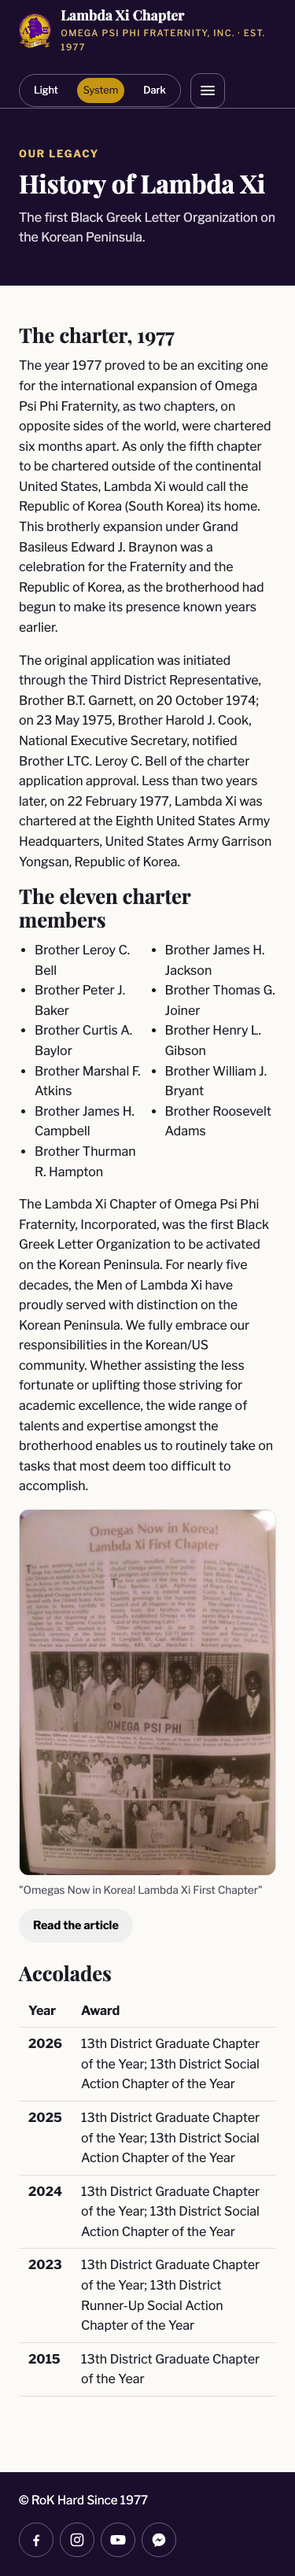
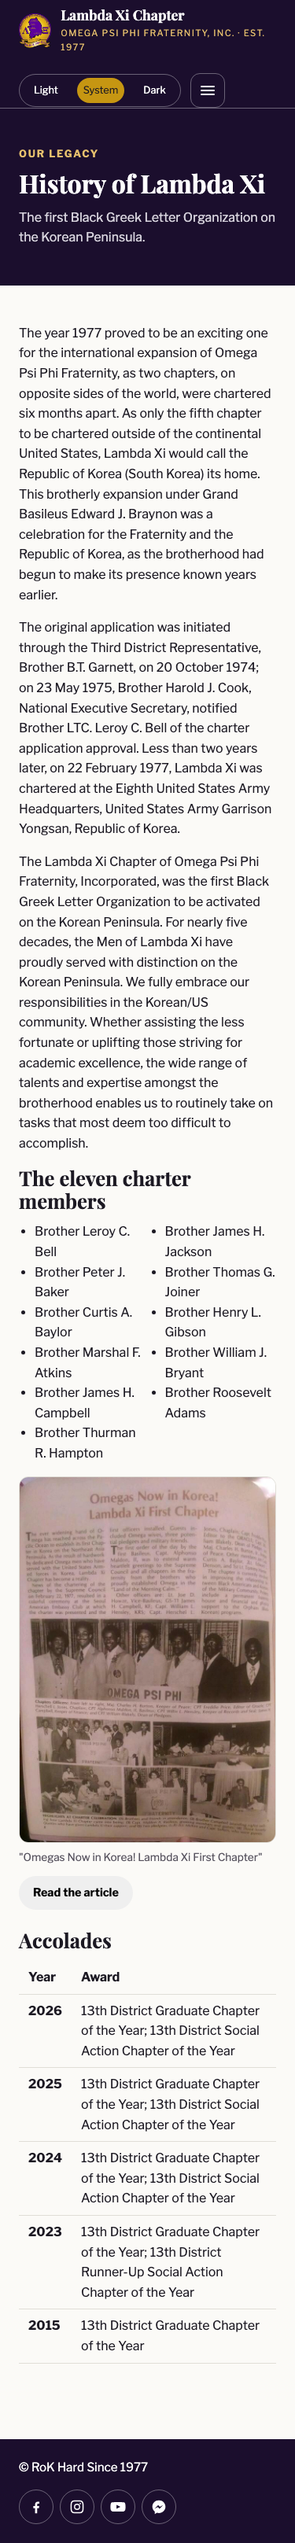
content: History opens with the charter story as one block, no section heading, members list after it

diff --git a/docs/history/index.html b/docs/history/index.html
@@ -108,28 +108,26 @@
   <section class="section">
     <div class="container">
       <div class="prose">
-        <h2 id="charter">The charter, 1977</h2>
         <p>The year 1977 proved to be an exciting one for the international expansion of Omega Psi Phi Fraternity, as two chapters, on opposite sides of the world, were chartered six months apart. As only the fifth chapter to be chartered outside of the continental United States, Lambda Xi would call the Republic of Korea (South Korea) its home. This brotherly expansion under Grand Basileus Edward J. Braynon was a celebration for the Fraternity and the Republic of Korea, as the brotherhood had begun to make its presence known years earlier.</p>
         <p>The original application was initiated through the Third District Representative, Brother B.T. Garnett, on 20 October 1974; on 23 May 1975, Brother Harold J. Cook, National Executive Secretary, notified Brother LTC. Leroy C. Bell of the charter application approval. Less than two years later, on 22 February 1977, Lambda Xi was chartered at the Eighth United States Army Headquarters, United States Army Garrison Yongsan, Republic of Korea.</p>
 
+        <p>The Lambda Xi Chapter of Omega Psi Phi Fraternity, Incorporated, was the first Black Greek Letter Organization to be activated on the Korean Peninsula. For nearly five decades, the Men of Lambda Xi have proudly served with distinction on the Korean Peninsula. We fully embrace our responsibilities in the Korean/US community. Whether assisting the less fortunate or uplifting those striving for academic excellence, the wide range of talents and expertise amongst the brotherhood enables us to routinely take on tasks that most deem too difficult to accomplish.</p>
+
         <h2 id="members">The eleven charter members</h2>
         <ul class="two-col-list">
-            <li>Brother Leroy C. Bell</li>
-            <li>Brother Peter J. Baker</li>
-            <li>Brother Curtis A. Baylor</li>
-            <li>Brother Marshal F. Atkins</li>
-            <li>Brother James H. Campbell</li>
-            <li>Brother Thurman R. Hampton</li>
-            <li>Brother James H. Jackson</li>
-            <li>Brother Thomas G. Joiner</li>
-            <li>Brother Henry L. Gibson</li>
-            <li>Brother William J. Bryant</li>
-            <li>Brother Roosevelt Adams</li>
-          
+          <li>Brother Leroy C. Bell</li>
+          <li>Brother Peter J. Baker</li>
+          <li>Brother Curtis A. Baylor</li>
+          <li>Brother Marshal F. Atkins</li>
+          <li>Brother James H. Campbell</li>
+          <li>Brother Thurman R. Hampton</li>
+          <li>Brother James H. Jackson</li>
+          <li>Brother Thomas G. Joiner</li>
+          <li>Brother Henry L. Gibson</li>
+          <li>Brother William J. Bryant</li>
+          <li>Brother Roosevelt Adams</li>
         </ul>
 
-
-        <p>The Lambda Xi Chapter of Omega Psi Phi Fraternity, Incorporated, was the first Black Greek Letter Organization to be activated on the Korean Peninsula. For nearly five decades, the Men of Lambda Xi have proudly served with distinction on the Korean Peninsula. We fully embrace our responsibilities in the Korean/US community. Whether assisting the less fortunate or uplifting those striving for academic excellence, the wide range of talents and expertise amongst the brotherhood enables us to routinely take on tasks that most deem too difficult to accomplish.</p>
       </div>
 
       <figure class="poster stack-top" id="article">

diff --git a/history-of-lambda-xi/mock/history-of-lambda-xi-mock.html b/history-of-lambda-xi/mock/history-of-lambda-xi-mock.html
@@ -107,28 +107,26 @@
   <section class="section">
     <div class="container">
       <div class="prose">
-        <h2 id="charter">The charter, 1977</h2>
         <p>The year 1977 proved to be an exciting one for the international expansion of Omega Psi Phi Fraternity, as two chapters, on opposite sides of the world, were chartered six months apart. As only the fifth chapter to be chartered outside of the continental United States, Lambda Xi would call the Republic of Korea (South Korea) its home. This brotherly expansion under Grand Basileus Edward J. Braynon was a celebration for the Fraternity and the Republic of Korea, as the brotherhood had begun to make its presence known years earlier.</p>
         <p>The original application was initiated through the Third District Representative, Brother B.T. Garnett, on 20 October 1974; on 23 May 1975, Brother Harold J. Cook, National Executive Secretary, notified Brother LTC. Leroy C. Bell of the charter application approval. Less than two years later, on 22 February 1977, Lambda Xi was chartered at the Eighth United States Army Headquarters, United States Army Garrison Yongsan, Republic of Korea.</p>
 
+        <p>The Lambda Xi Chapter of Omega Psi Phi Fraternity, Incorporated, was the first Black Greek Letter Organization to be activated on the Korean Peninsula. For nearly five decades, the Men of Lambda Xi have proudly served with distinction on the Korean Peninsula. We fully embrace our responsibilities in the Korean/US community. Whether assisting the less fortunate or uplifting those striving for academic excellence, the wide range of talents and expertise amongst the brotherhood enables us to routinely take on tasks that most deem too difficult to accomplish.</p>
+
         <h2 id="members">The eleven charter members</h2>
         <ul class="two-col-list">
-            <li>Brother Leroy C. Bell</li>
-            <li>Brother Peter J. Baker</li>
-            <li>Brother Curtis A. Baylor</li>
-            <li>Brother Marshal F. Atkins</li>
-            <li>Brother James H. Campbell</li>
-            <li>Brother Thurman R. Hampton</li>
-            <li>Brother James H. Jackson</li>
-            <li>Brother Thomas G. Joiner</li>
-            <li>Brother Henry L. Gibson</li>
-            <li>Brother William J. Bryant</li>
-            <li>Brother Roosevelt Adams</li>
-          
+          <li>Brother Leroy C. Bell</li>
+          <li>Brother Peter J. Baker</li>
+          <li>Brother Curtis A. Baylor</li>
+          <li>Brother Marshal F. Atkins</li>
+          <li>Brother James H. Campbell</li>
+          <li>Brother Thurman R. Hampton</li>
+          <li>Brother James H. Jackson</li>
+          <li>Brother Thomas G. Joiner</li>
+          <li>Brother Henry L. Gibson</li>
+          <li>Brother William J. Bryant</li>
+          <li>Brother Roosevelt Adams</li>
         </ul>
 
-
-        <p>The Lambda Xi Chapter of Omega Psi Phi Fraternity, Incorporated, was the first Black Greek Letter Organization to be activated on the Korean Peninsula. For nearly five decades, the Men of Lambda Xi have proudly served with distinction on the Korean Peninsula. We fully embrace our responsibilities in the Korean/US community. Whether assisting the less fortunate or uplifting those striving for academic excellence, the wide range of talents and expertise amongst the brotherhood enables us to routinely take on tasks that most deem too difficult to accomplish.</p>
       </div>
 
       <figure class="poster stack-top" id="article">

diff --git a/merged/history-of-lambda-xi.html b/merged/history-of-lambda-xi.html
@@ -107,28 +107,26 @@
   <section class="section">
     <div class="container">
       <div class="prose">
-        <h2 id="charter">The charter, 1977</h2>
         <p>The year 1977 proved to be an exciting one for the international expansion of Omega Psi Phi Fraternity, as two chapters, on opposite sides of the world, were chartered six months apart. As only the fifth chapter to be chartered outside of the continental United States, Lambda Xi would call the Republic of Korea (South Korea) its home. This brotherly expansion under Grand Basileus Edward J. Braynon was a celebration for the Fraternity and the Republic of Korea, as the brotherhood had begun to make its presence known years earlier.</p>
         <p>The original application was initiated through the Third District Representative, Brother B.T. Garnett, on 20 October 1974; on 23 May 1975, Brother Harold J. Cook, National Executive Secretary, notified Brother LTC. Leroy C. Bell of the charter application approval. Less than two years later, on 22 February 1977, Lambda Xi was chartered at the Eighth United States Army Headquarters, United States Army Garrison Yongsan, Republic of Korea.</p>
 
+        <p>The Lambda Xi Chapter of Omega Psi Phi Fraternity, Incorporated, was the first Black Greek Letter Organization to be activated on the Korean Peninsula. For nearly five decades, the Men of Lambda Xi have proudly served with distinction on the Korean Peninsula. We fully embrace our responsibilities in the Korean/US community. Whether assisting the less fortunate or uplifting those striving for academic excellence, the wide range of talents and expertise amongst the brotherhood enables us to routinely take on tasks that most deem too difficult to accomplish.</p>
+
         <h2 id="members">The eleven charter members</h2>
         <ul class="two-col-list">
-            <li>Brother Leroy C. Bell</li>
-            <li>Brother Peter J. Baker</li>
-            <li>Brother Curtis A. Baylor</li>
-            <li>Brother Marshal F. Atkins</li>
-            <li>Brother James H. Campbell</li>
-            <li>Brother Thurman R. Hampton</li>
-            <li>Brother James H. Jackson</li>
-            <li>Brother Thomas G. Joiner</li>
-            <li>Brother Henry L. Gibson</li>
-            <li>Brother William J. Bryant</li>
-            <li>Brother Roosevelt Adams</li>
-          
+          <li>Brother Leroy C. Bell</li>
+          <li>Brother Peter J. Baker</li>
+          <li>Brother Curtis A. Baylor</li>
+          <li>Brother Marshal F. Atkins</li>
+          <li>Brother James H. Campbell</li>
+          <li>Brother Thurman R. Hampton</li>
+          <li>Brother James H. Jackson</li>
+          <li>Brother Thomas G. Joiner</li>
+          <li>Brother Henry L. Gibson</li>
+          <li>Brother William J. Bryant</li>
+          <li>Brother Roosevelt Adams</li>
         </ul>
 
-
-        <p>The Lambda Xi Chapter of Omega Psi Phi Fraternity, Incorporated, was the first Black Greek Letter Organization to be activated on the Korean Peninsula. For nearly five decades, the Men of Lambda Xi have proudly served with distinction on the Korean Peninsula. We fully embrace our responsibilities in the Korean/US community. Whether assisting the less fortunate or uplifting those striving for academic excellence, the wide range of talents and expertise amongst the brotherhood enables us to routinely take on tasks that most deem too difficult to accomplish.</p>
       </div>
 
       <figure class="poster stack-top" id="article">

diff --git a/tooling/mock-src/pages/history.html b/tooling/mock-src/pages/history.html
@@ -20,28 +20,26 @@
   <section class="section">
     <div class="container">
       <div class="prose">
-        <h2 id="charter">The charter, 1977</h2>
         <p>The year 1977 proved to be an exciting one for the international expansion of Omega Psi Phi Fraternity, as two chapters, on opposite sides of the world, were chartered six months apart. As only the fifth chapter to be chartered outside of the continental United States, Lambda Xi would call the Republic of Korea (South Korea) its home. This brotherly expansion under Grand Basileus Edward J. Braynon was a celebration for the Fraternity and the Republic of Korea, as the brotherhood had begun to make its presence known years earlier.</p>
         <p>The original application was initiated through the Third District Representative, Brother B.T. Garnett, on 20 October 1974; on 23 May 1975, Brother Harold J. Cook, National Executive Secretary, notified Brother LTC. Leroy C. Bell of the charter application approval. Less than two years later, on 22 February 1977, Lambda Xi was chartered at the Eighth United States Army Headquarters, United States Army Garrison Yongsan, Republic of Korea.</p>
 
+        <p>The Lambda Xi Chapter of Omega Psi Phi Fraternity, Incorporated, was the first Black Greek Letter Organization to be activated on the Korean Peninsula. For nearly five decades, the Men of Lambda Xi have proudly served with distinction on the Korean Peninsula. We fully embrace our responsibilities in the Korean/US community. Whether assisting the less fortunate or uplifting those striving for academic excellence, the wide range of talents and expertise amongst the brotherhood enables us to routinely take on tasks that most deem too difficult to accomplish.</p>
+
         <h2 id="members">The eleven charter members</h2>
         <ul class="two-col-list">
-            <li>Brother Leroy C. Bell</li>
-            <li>Brother Peter J. Baker</li>
-            <li>Brother Curtis A. Baylor</li>
-            <li>Brother Marshal F. Atkins</li>
-            <li>Brother James H. Campbell</li>
-            <li>Brother Thurman R. Hampton</li>
-            <li>Brother James H. Jackson</li>
-            <li>Brother Thomas G. Joiner</li>
-            <li>Brother Henry L. Gibson</li>
-            <li>Brother William J. Bryant</li>
-            <li>Brother Roosevelt Adams</li>
-          
+          <li>Brother Leroy C. Bell</li>
+          <li>Brother Peter J. Baker</li>
+          <li>Brother Curtis A. Baylor</li>
+          <li>Brother Marshal F. Atkins</li>
+          <li>Brother James H. Campbell</li>
+          <li>Brother Thurman R. Hampton</li>
+          <li>Brother James H. Jackson</li>
+          <li>Brother Thomas G. Joiner</li>
+          <li>Brother Henry L. Gibson</li>
+          <li>Brother William J. Bryant</li>
+          <li>Brother Roosevelt Adams</li>
         </ul>
 
-
-        <p>The Lambda Xi Chapter of Omega Psi Phi Fraternity, Incorporated, was the first Black Greek Letter Organization to be activated on the Korean Peninsula. For nearly five decades, the Men of Lambda Xi have proudly served with distinction on the Korean Peninsula. We fully embrace our responsibilities in the Korean/US community. Whether assisting the less fortunate or uplifting those striving for academic excellence, the wide range of talents and expertise amongst the brotherhood enables us to routinely take on tasks that most deem too difficult to accomplish.</p>
       </div>
 
       <figure class="poster stack-top" id="article">
